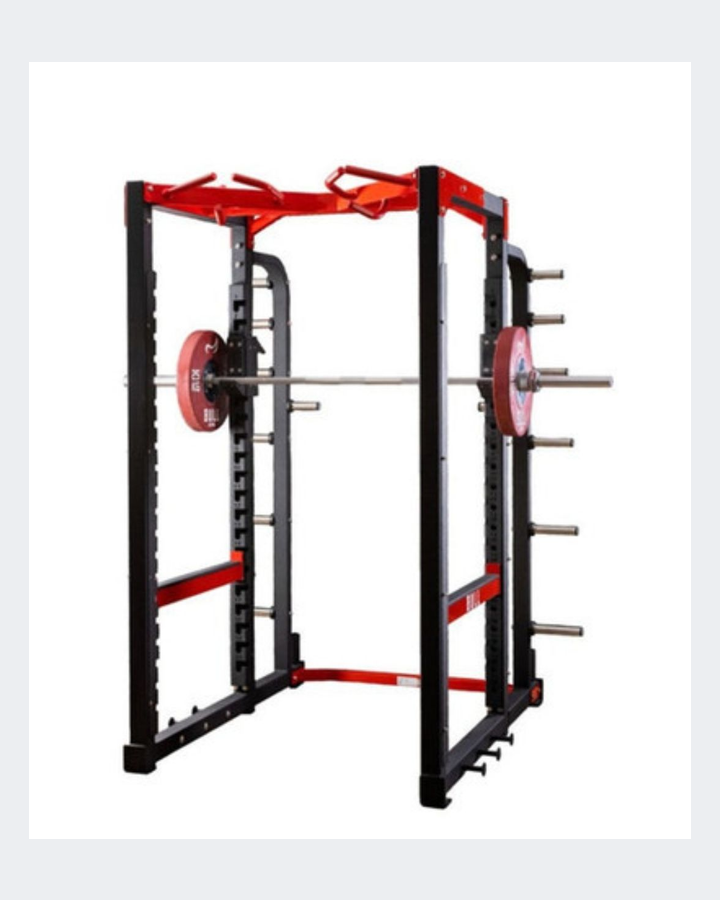
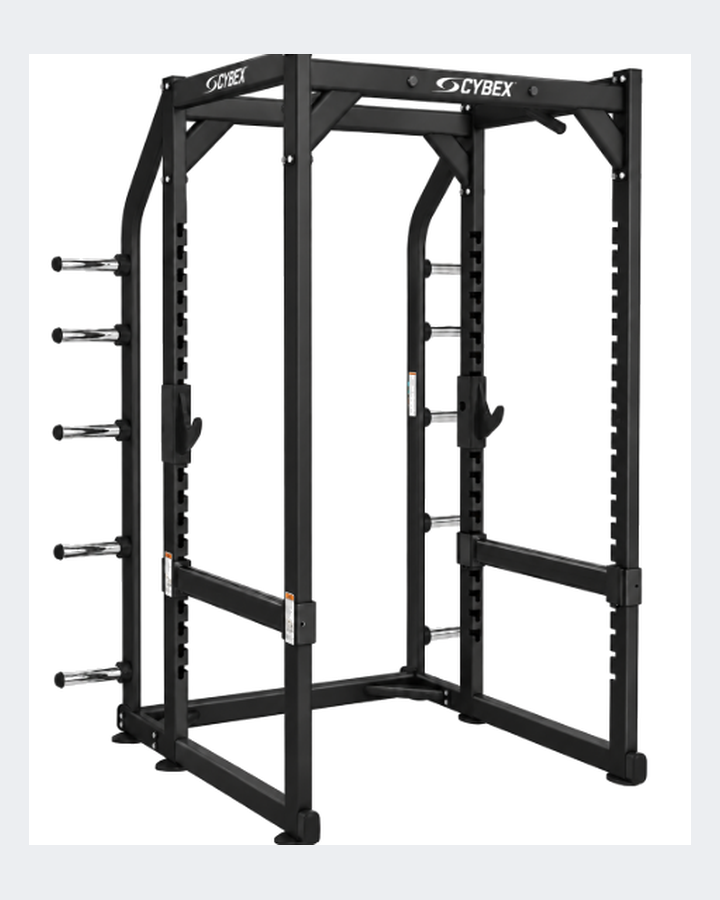
Swap CYBEX power rack art and add idle autosave.

diff --git a/floorplan-app/app.js b/floorplan-app/app.js
@@ -26,7 +26,7 @@ const AUTHOR_KEY = "kyodo-floorplan-author";
 const PLACE_BASE = "../floorplan/machines/place/";
 const PREVIEW_BASE = "../floorplan/machines/preview/";
 /** 画像差し替え時にブラウザ/CDNキャッシュを切る */
-const ART_VER = "20260913q";
+const ART_VER = "20260913r";
 const CSV_URL = "../floorplan/machines.csv";
 const CATALOG_URL = "../floorplan/machines_catalog.json";
 const MACHINES_API = "/api/machines";
@@ -34,6 +34,7 @@ const DEFAULT_CLEARANCE_CM = 80;
 const GRID_CM = 20;
 const SNAP_SCREEN_PX = 10;
 const MAX_UNDO = 60;
+const AUTOSAVE_MS = 4000;
 
 const ZONE_COLORS = [
   { id: "yellow", fill: "rgba(245,215,110,0.45)", chip: "#f5d76e", name: "黄" },
@@ -85,6 +86,9 @@ const state = {
   zonePointerMoved: false,
   /** 他フロアに置いてある台数（id -> count）。2F+3F合算の残数計算用 */
   peerCounts: {},
+  dirty: false,
+  autosaveTimer: null,
+  autosaveInFlight: false,
 };
 
 const el = {
@@ -365,6 +369,56 @@ function pushUndo() {
   if (last === snap) return;
   state.undoStack.push(snap);
   if (state.undoStack.length > MAX_UNDO) state.undoStack.shift();
+  markDirty();
+}
+
+function markDirty() {
+  state.dirty = true;
+  scheduleAutosave();
+}
+
+function isBusyForAutosave() {
+  return !!(
+    state.zoneMove ||
+    state.zoneResize ||
+    state.zoneLabelDrag ||
+    state.zoneDraft ||
+    state.dragPrimaryUid ||
+    state.panning ||
+    state.marquee ||
+    state.autosaveInFlight ||
+    el.btnSave?.disabled ||
+    el.btnSave?.classList.contains("is-saving")
+  );
+}
+
+function scheduleAutosave() {
+  if (state.autosaveTimer) clearTimeout(state.autosaveTimer);
+  state.autosaveTimer = setTimeout(() => {
+    state.autosaveTimer = null;
+    runAutosave();
+  }, AUTOSAVE_MS);
+}
+
+function runAutosave() {
+  if (!state.dirty) return;
+  if (isBusyForAutosave()) {
+    scheduleAutosave();
+    return;
+  }
+  state.autosaveInFlight = true;
+  state.dirty = false;
+  saveCloud({ auto: true })
+    .catch((err) => {
+      console.error(err);
+      state.dirty = true;
+      showSaveToast("自動保存に失敗しました", { error: true });
+      scheduleAutosave();
+    })
+    .finally(() => {
+      state.autosaveInFlight = false;
+      if (state.dirty) scheduleAutosave();
+    });
 }
 
 function undoLast() {
@@ -381,6 +435,7 @@ function undoLast() {
     state.selectedZoneUids = new Set(data.selectedZoneUids || []);
     renderZones();
     renderMachines();
+    markDirty();
     flash("戻した");
   } catch {
     flash("戻す失敗");
@@ -1443,6 +1498,11 @@ function applyRoomData(data, { keepSelection = false } = {}) {
 
 async function loadCloud(showFlash = true) {
   if (showFlash) flash("読込中…");
+  if (state.autosaveTimer) {
+    clearTimeout(state.autosaveTimer);
+    state.autosaveTimer = null;
+  }
+  state.dirty = false;
   const data = await fetchRoom();
   applyRoomData(data);
   await refreshPeerCounts();
@@ -1450,10 +1510,10 @@ async function loadCloud(showFlash = true) {
   if (showFlash) flash(data.updatedAt ? "最新を表示" : "まだ空です");
 }
 
-async function saveCloud() {
+async function saveCloud({ auto = false } = {}) {
   const snapshot = state.items.map((it) => ({ ...it }));
   const zoneSnap = state.zones.map((z) => ({ ...z }));
-  flash("保存中…");
+  if (!auto) flash("保存中…");
   el.btnSave?.classList.add("is-saving");
   try {
     const res = await fetch(`/api/room?id=${encodeURIComponent(state.roomId)}`, {
@@ -1463,6 +1523,7 @@ async function saveCloud() {
         by: authorName(),
         items: snapshot,
         zones: zoneSnap,
+        note: auto ? "自動保存" : undefined,
       }),
     });
     const json = await res.json().catch(() => ({}));
@@ -1475,7 +1536,8 @@ async function saveCloud() {
     state.zones = savedZones.map((z) => ({ ...z }));
     state.updatedAt = json.data?.updatedAt || new Date().toISOString();
     state.updatedBy = json.data?.updatedBy || authorName();
-    clearZoneEdit();
+    state.dirty = false;
+    if (!auto) clearZoneEdit();
 
     const savedEntry = json.data?.savedEntry;
     if (savedEntry && savedEntry.id) {
@@ -1536,8 +1598,8 @@ async function saveCloud() {
     renderMachines();
     await refreshPeerCounts();
     renderPalette();
-    showSaveToast("保存されました");
-    flash("保存済み");
+    showSaveToast(auto ? "自動保存しました" : "保存されました");
+    flash(auto ? "自動保存" : "保存済み");
   } finally {
     el.btnSave?.classList.remove("is-saving");
   }

diff --git a/api/machines.js b/api/machines.js
@@ -246,7 +246,7 @@ async function fetchExisting(used) {
     if (photo === "freeweight_1" || (name === "パワーラック" && /bull/i.test(brand))) {
       const racks = [
         { id: "freeweight_1", label: "パワーラック", brand: "BULL", model: model || "パワーラック", photoKey: "freeweight_1" },
-        { id: "freeweight_1b", label: "パワーラック", brand: "CYBEX", model: "パワーラック", photoKey: "freeweight_1" },
+        { id: "freeweight_1b", label: "パワーラック", brand: "CYBEX", model: "パワーラック", photoKey: "freeweight_1b" },
       ];
       for (const part of racks) {
         if (used.has(part.id)) continue;

diff --git a/scripts/build_cybex_rack_art.py b/scripts/build_cybex_rack_art.py
@@ -1,0 +1,85 @@
+from pathlib import Path
+
+from PIL import Image, ImageDraw, ImageFont
+
+ROOT = Path(__file__).resolve().parents[1]
+SRC = ROOT / "floorplan/source/cybex_power_rack_src.png"
+
+
+def font(size: int) -> ImageFont.ImageFont:
+    for p in (
+        r"C:\Windows\Fonts\YuGothB.ttc",
+        r"C:\Windows\Fonts\meiryo.ttc",
+        r"C:\Windows\Fonts\msgothic.ttc",
+    ):
+        try:
+            return ImageFont.truetype(p, size)
+        except OSError:
+            pass
+    return ImageFont.load_default()
+
+
+def to_white_bg(im: Image.Image) -> Image.Image:
+    im = im.convert("RGBA")
+    px = im.load()
+    w, h = im.size
+    for y in range(h):
+        for x in range(w):
+            r, g, b, a = px[x, y]
+            if a < 20:
+                px[x, y] = (255, 255, 255, 255)
+                continue
+            if r > 235 and g > 235 and b > 235 and abs(r - g) < 12 and abs(g - b) < 12:
+                px[x, y] = (255, 255, 255, 255)
+    bg = Image.new("RGBA", im.size, (255, 255, 255, 255))
+    bg.alpha_composite(im)
+    return bg.convert("RGB")
+
+
+def fit_contain(
+    im: Image.Image,
+    box_w: int,
+    box_h: int,
+    bg=(255, 255, 255),
+    pad_ratio: float = 0.06,
+) -> Image.Image:
+    canvas = Image.new("RGB", (box_w, box_h), bg)
+    max_w = int(box_w * (1 - pad_ratio * 2))
+    max_h = int(box_h * (1 - pad_ratio * 2))
+    scale = min(max_w / im.width, max_h / im.height)
+    nw = max(1, int(im.width * scale))
+    nh = max(1, int(im.height * scale))
+    resized = im.resize((nw, nh), Image.Resampling.LANCZOS)
+    x = (box_w - nw) // 2
+    y = (box_h - nh) // 2
+    canvas.paste(resized, (x, y))
+    return canvas
+
+
+def main() -> None:
+    base = to_white_bg(Image.open(SRC))
+    ref_jpg = Image.open(ROOT / "freeweight_1.jpg")
+    ref_place = Image.open(ROOT / "floorplan/machines/place/freeweight_1_place.png")
+    place_bg = (236, 238, 241)
+
+    w, h = ref_jpg.size
+    fitted = fit_contain(base, w, h - 160, bg=(255, 255, 255), pad_ratio=0.05)
+    out_im = Image.new("RGB", (w, h), (255, 255, 255))
+    out_im.paste(fitted, (0, 20))
+    d = ImageDraw.Draw(out_im)
+    f = font(48)
+    label = "パワーラック　×1"
+    bbox = d.textbbox((0, 0), label, font=f)
+    tw = bbox[2] - bbox[0]
+    d.text(((w - tw) // 2, h - 110), label, fill=(20, 20, 20), font=f)
+    out_im.save(ROOT / "freeweight_1b.jpg", quality=92, optimize=True)
+
+    place = fit_contain(base, ref_place.size[0], ref_place.size[1], bg=place_bg, pad_ratio=0.04)
+    place.save(ROOT / "floorplan/machines/place/freeweight_1b_place.png")
+    prev = fit_contain(base, 256, 256, bg=place_bg, pad_ratio=0.06)
+    prev.save(ROOT / "floorplan/machines/preview/freeweight_1b_preview.png")
+    print("ok freeweight_1b", out_im.size, place.size, prev.size)
+
+
+if __name__ == "__main__":
+    main()
